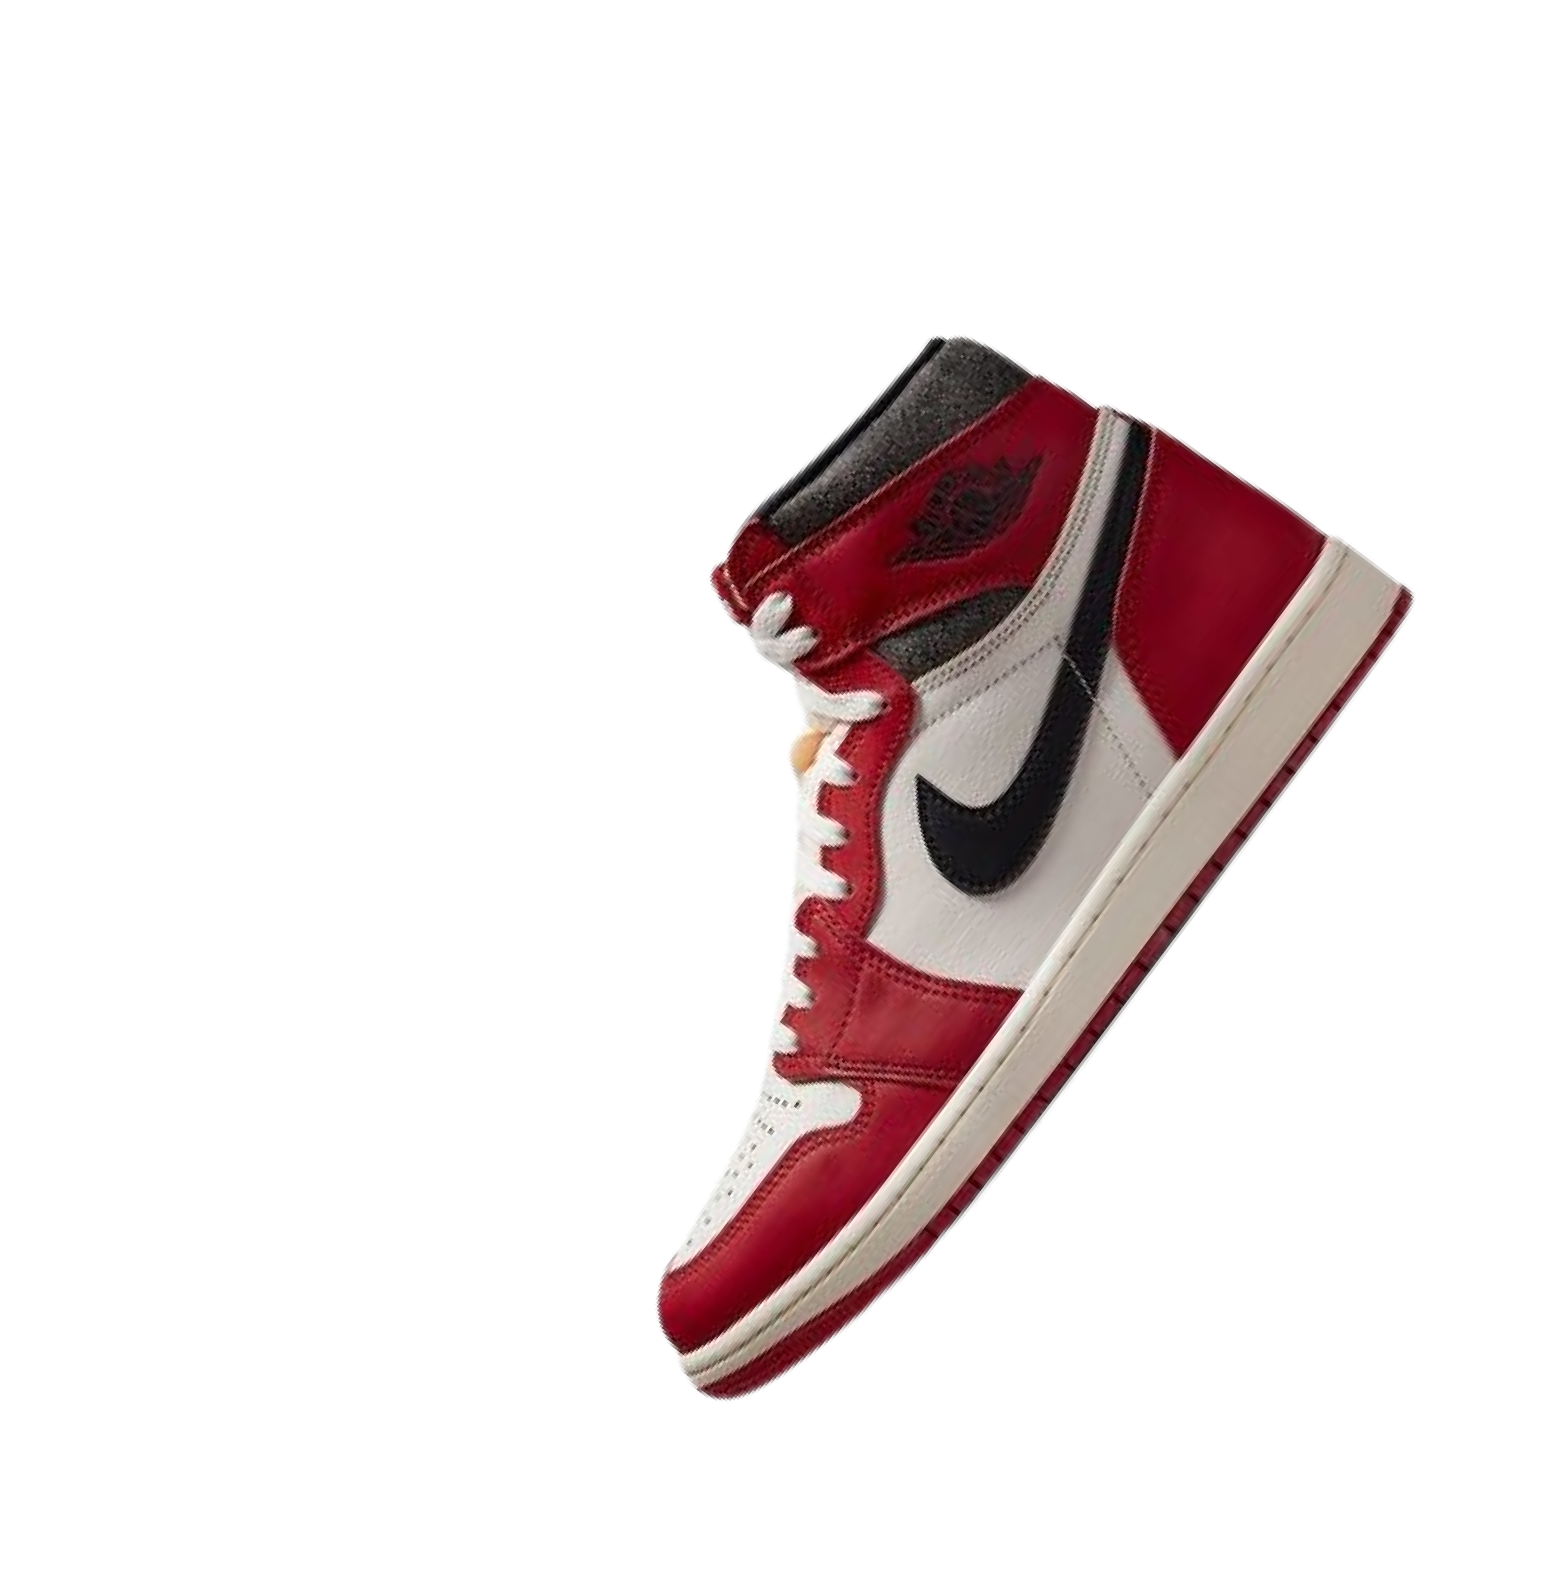
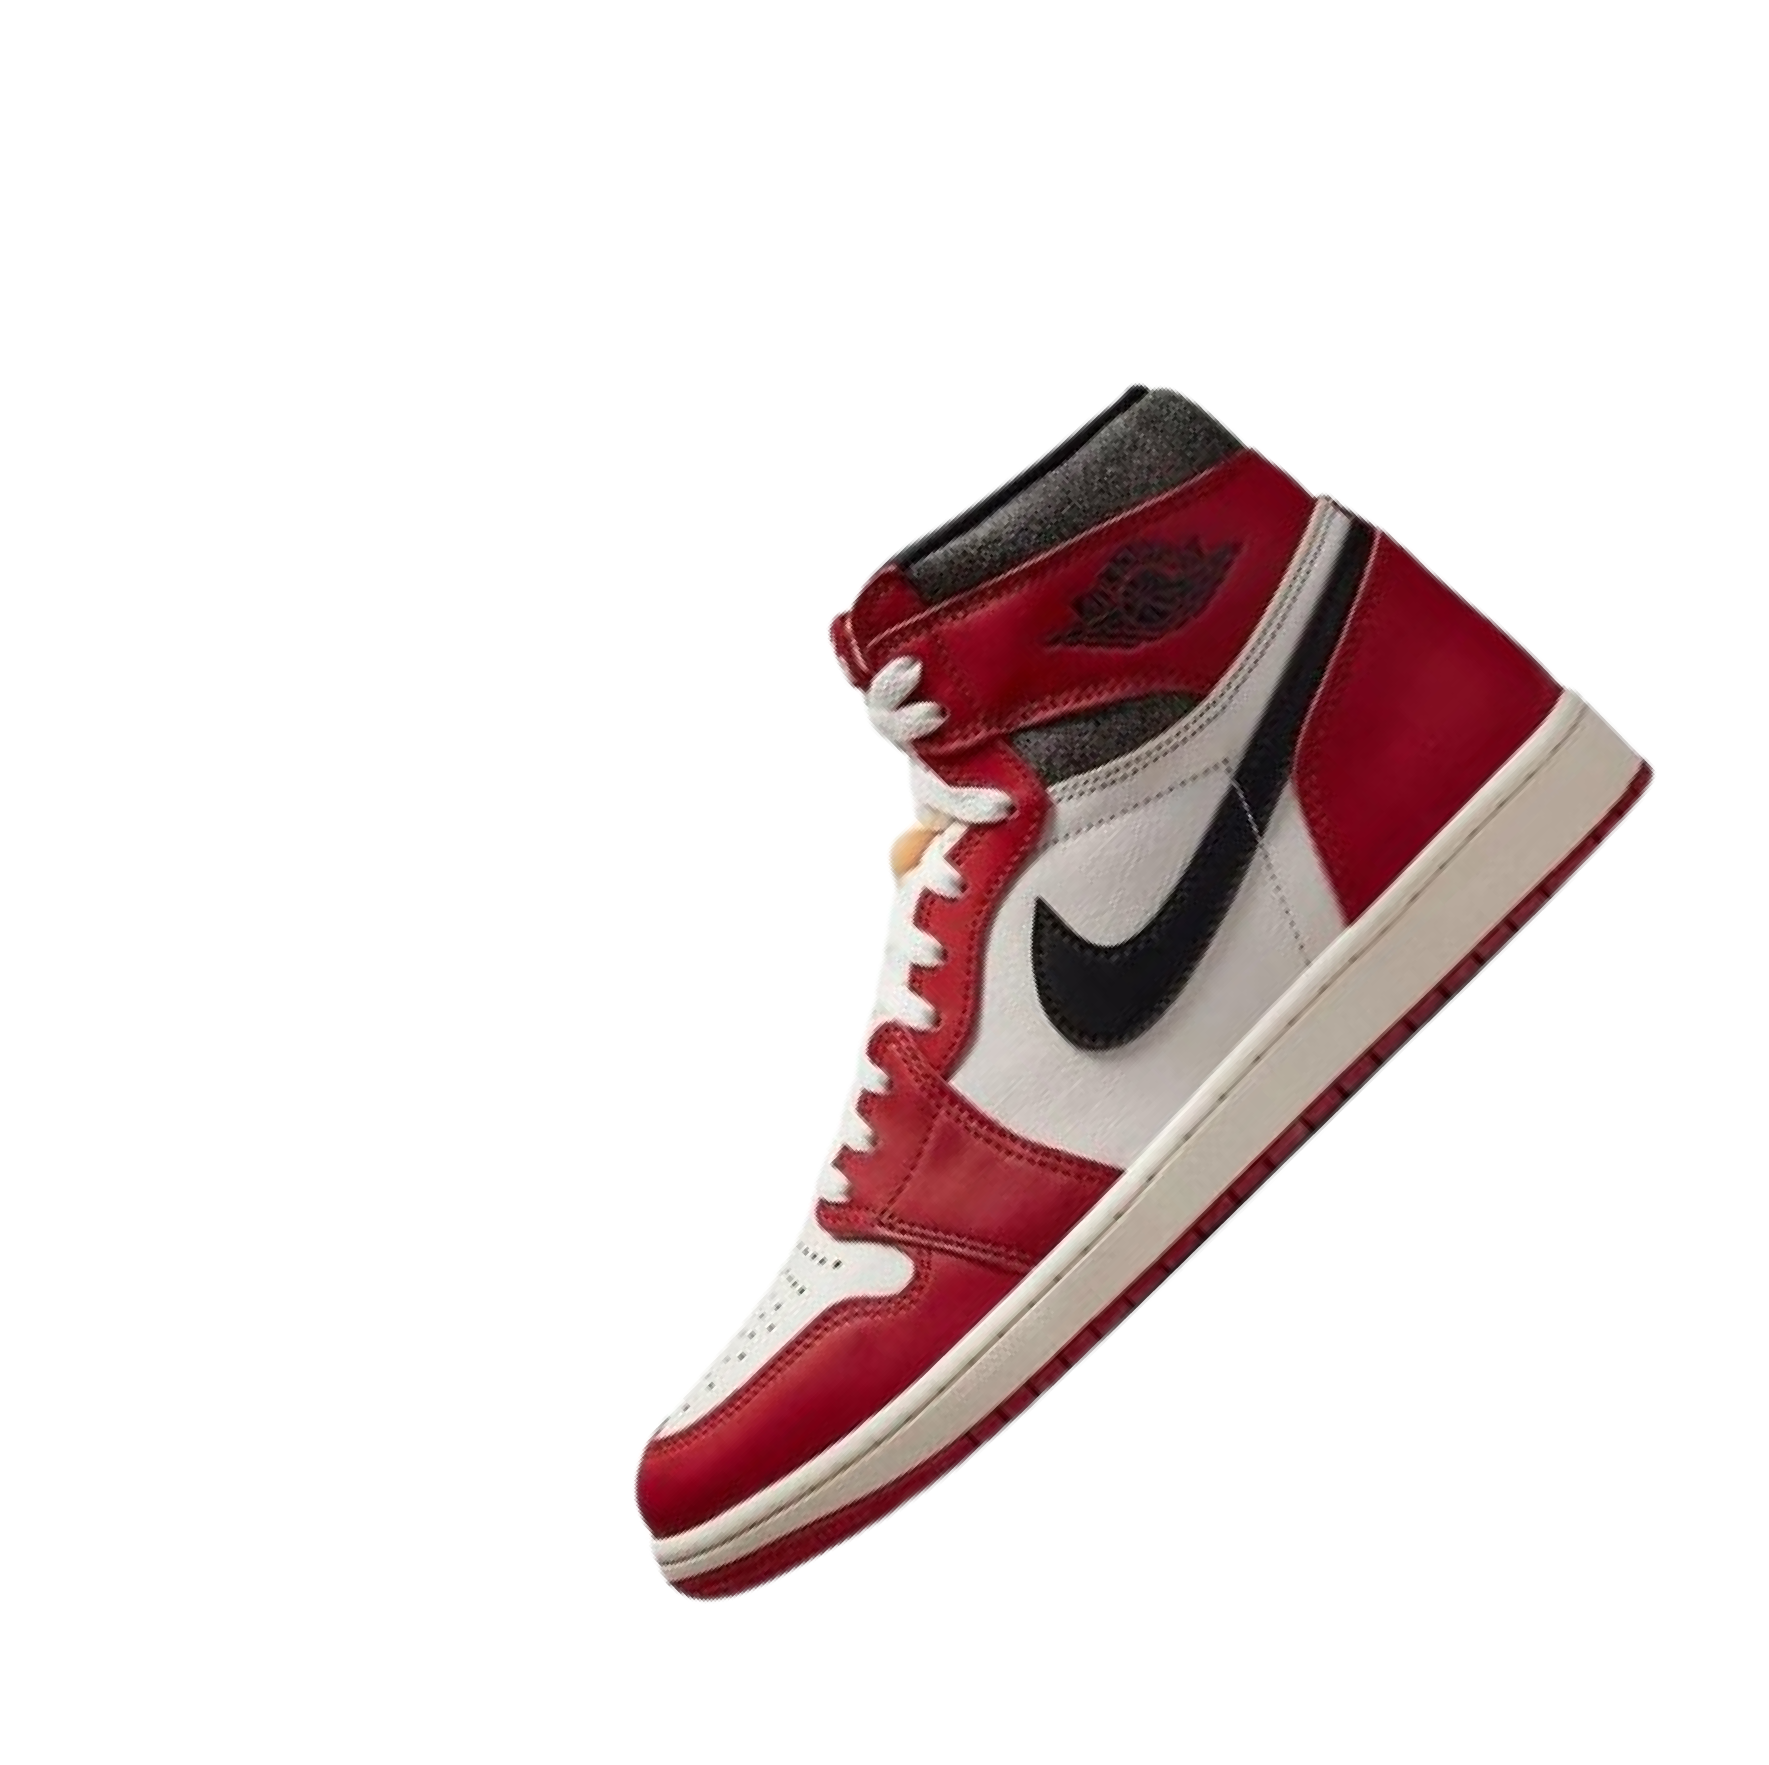
half commit

Changed region(s): [[0.3374, 0.2186, 0.9508, 0.9057]]

diff --git a/src/components/Hero/Hero.jsx b/src/components/Hero/Hero.jsx
@@ -3,6 +3,7 @@ import BgImage from "../../assets/bg-slate.png";
 import LnF from "../../assets/L&F.png";
 import Navbar from "../Navbar/Navbar";
 import { motion } from "framer-motion";
+import { FaFacebookF, FaInstagram, FaTwitter } from "react-icons/fa";
 
 const bgImage = {
   backgroundImage: `url(${BgImage})`,
@@ -12,12 +13,14 @@ const bgImage = {
 };
 
 const Hero = () => {
+  const [sidebar, setSidebar] = React.useState(false);
+
   return (
-    <main style={bgImage}>
-      <section className="min-h-[750px] w-full">
+    <main className="bg-darkGray/95">
+      <section className="min-h-[650px] w-full">
         <div className="container">
           {/* Navbar Section */}
-          <Navbar />
+          <Navbar sidebar={sidebar} setSidebar={setSidebar} />
           {/* Hero Section */}
           <div className="grid grid-cols-1 md:grid-cols-2 lg:grid-cols-3 place-items-center min-h-[850px]">
             {/* text Content Section */}
@@ -31,9 +34,9 @@ const Hero = () => {
                   damping: 10,
                   delay: 1,
                 }}
-                className="text-7xl font-bold leading-tight ml-17"
+                className="text-6xl font-bold leading-tight ml-17"
               >
-                Black Coffee
+                Lost & Found
               </motion.h1>
               <motion.div
                 initial={{ opacity: 0, y: 100 }}
@@ -47,29 +50,29 @@ const Hero = () => {
                 className="relative"
               >
                 <div className="relative z-10 space-y-4">
-                  <h1 className="text-2xl">Black Coffee</h1>
+                  <h1 className="text-2xl">Jodan 1 Retro High OG</h1>
                   <h1 className="text-sm opacity-55 leading-loose">
                     Lorem ipsum dolor, sit amet consectetur adipisicing elit.
                     Soluta officiis dignissimos aut. Necessitatibus magni minus
                     enim esse qui, nostrum neque!
                   </h1>
                 </div>
-                <div className="absolute -top-6 -left-10 w-[250px] h-[195px] bg-gray-700/25"></div>
+                <div className="absolute -top-6 -left-10 w-[250px] h-[195px] bg-gray-700/50"></div>
               </motion.div>
             </div>
             {/* Hero Image Section */}
             <div className="realtive">
-              <img
-                initial={{ opacity: 0, scale:0 }}
-                animate={{ opacity: 1, scale:1 }}
+              <motion.img
+                initial={{ scale: 0 }}
+                animate={{ rotate: 360, scale: 1.1 }}
                 transition={{
                   type: "spring",
-                  stiffness: 100,
-                  damping: 10,
-                  delay: 1,
+                  stiffness: 90,
+                  damping: 30,
+                  duration: 2,
                 }}
                 src={LnF}
-                className="relative z-50 h-[600px] w-[600px] md:h-[600px] img-shadow mr-80 items-center"
+                className="relative z-50 h-[900px] w-[900px] md:h-[600px] md:w-[700px] img-shadow mr-80 items-center justify-center"
               />
               {/* orange circle ring */}
               {/* <div
@@ -77,10 +80,20 @@ const Hero = () => {
               border-[20px] rounded-full z-10"
               ></div> */}
               {/* big text section */}
-              <div className="absolute top-20 left-[300px] z-[100]">
-                <h1 className="text-[100px] scale-150 font-bold text-darkGray/40 leading-none">
-                  Black Coffee
-                </h1>
+              <div className="absolute top-20 left-[950px] z-[100] ">
+                <motion.h1
+                  initial={{ opacity: 0, y: 100 }}
+                  animate={{ opacity: 1, y: 0 }}
+                  transition={{
+                    type: "spring",
+                    stiffness: 100,
+                    damping: 10,
+                    delay: 1,
+                  }}
+                  className="text-[150px] scale-150 font-bold text-darkGray/80 leading-none"
+                >
+                  NIKE
+                </motion.h1>
               </div>
             </div>
             {/* third div Section */}
@@ -93,26 +106,54 @@ const Hero = () => {
                 damping: 10,
                 delay: 1,
               }}
-              className="text-lightOrange mt-[100px] md:mt-0 p-4 space-y-28"
+              className="text-lightOrange mt-[100px] md:mt-0 p-4 space-y-28 opacity-0"
             >
               <h1 className=" opacity-0 text-7xl font-bold leading-tight ml-17">
                 Black Coffee
               </h1>
               <div className="relative">
                 <div className="relative z-10 space-y-4">
-                  <h1 className="text-2xl">Black Coffee</h1>
-                  <h1 className="text-sm opacity-55 leading-loose">
+                  <h1 className="text-2xl opacity-0">Black Coffee</h1>
+                  <h1 className="text-sm  leading-loose opacity-0">
                     Lorem ipsum dolor, sit amet consectetur adipisicing elit.
                     Soluta officiis dignissimos aut. Necessitatibus magni minus
                     enim esse qui, nostrum neque!
                   </h1>
                 </div>
-                <div className="absolute -top-6 -right-10 w-[250px] h-[195px] bg-darkGray/50"></div>
+                <div className="absolute -top-6 -right-10 w-[250px] h-[195px] bg-gray/40 opacity-40"></div>
               </div>
             </motion.div>
             <div></div>
           </div>
         </div>
+
+        {/* sidebar section */}
+        {sidebar && (
+          <motion.div
+            initial={{ x: "10%" }}
+            animate={{ x: 0 }}
+            className="absolute top-0 right-0 w-[140px] h-full bg-primary/50 backdrop-blur-sm z-10"
+          >
+            <div className="w-full h-full flex justify-center items-center ">
+              <div className="flex flex-col justify-center items-center gap-6">
+                {/* line */}
+                <div className="w-[1px] h-[70px] bg-white/20"></div>
+                {/* social icons */}
+                <div className="inline-block p-2 rounded-full cursor-pointer border border-white">
+                  <FaFacebookF className="text-2xl text-black" />
+                </div>
+                <div className="inline-block p-2 rounded-full cursor-pointer border border-white">
+                  <FaInstagram className="text-2xl text-black" />
+                </div>
+                <div className="inline-block p-2 rounded-full cursor-pointer border border-white">
+                  <FaTwitter className="text-2xl text-black" />
+                </div>
+
+                <div className="w-[1px] h-[70px] bg-white/20"></div>
+              </div>
+            </div>
+          </motion.div>
+        )}
       </section>
     </main>
   );

diff --git a/src/components/Services/Services.jsx b/src/components/Services/Services.jsx
@@ -1,7 +1,137 @@
 import React from "react";
+import { motion } from "framer-motion";
+import Nike1 from "../../assets/coffee/nike1.png";
+import Nike2 from "../../assets/coffee/nike2.png";
+import Nike3 from "../../assets/coffee/nike3.png";
 
+const servicesData = [
+  {
+    id: 1,
+    image: Nike1,
+    title: "Power Puff Buttercup ",
+    description:
+      "A bold green and black sneaker inspired by Buttercup's fearless spirit. Perfect for those who love to stand out.",
+  },
+  {
+    id: 2,
+    image: Nike2,
+    title: "Power Puff Bubbles",
+    description:
+      "A vibrant blue and yellow shoe capturing Bubbles' playful energy. Ideal for spreading positivity.",
+  },
+  {
+    id: 3,
+    image: Nike3,
+    title: "Power Puff Blossom",
+    description:
+      "A striking pink and orange sneaker reflecting Blossom's leadership and confidence. Designed for those who command attention.",
+  },
+];
+
+const cardVariants = {
+  hidden: {
+    opacity: 0,
+    y: 20,
+  },
+  visible: {
+    opacity: 1,
+    y: 0,
+    transition: {
+      type: "spring",
+      stiffness: 150,
+      damping: 10,
+      ease: "easeInOut",
+    },
+  },
+};
+
+const containerVariants = {
+  hidden: {
+    opacity: 1,
+  },
+  visible: {
+    opacity: 1,
+    transition: {
+      delay: 0.6,
+      staggerChildren: 0.4,
+    },
+  },
+};
 const Services = () => {
-  return <div>Services</div>;
+  return (
+    <div className="container my-16 space-y-4">
+      {/* header section */}
+      <div className="text-center w-3/4 mx-auto space-y-2 ">
+        <motion.h1
+          initial={{ opacity: 0, scale: 0 }}
+          animate={{ opacity: 1, scale: 1 }}
+          transition={{
+            type: "spring",
+            stiffness: 100,
+            damping: 10,
+            delay: 2.5,
+          }}
+          className="uppercase text-center text-3xl font-bold"
+        >
+          Trend & <span className="text-primary">Unique</span>
+        </motion.h1>
+        <motion.p
+          initial={{ opacity: 0, scale: 0 }}
+          animate={{ opacity: 1, scale: 1 }}
+          transition={{
+            type: "spring",
+            stiffness: 100,
+            damping: 10,
+            delay: 2.5,
+          }}
+          className="font-bold text-sm"
+        >
+          Offering personalized fashion recommendations, premium customer
+          support, fast shipping, and easy returns. Our services are designed to
+          provide a seamless shopping experience with the latest trends and
+          guaranteed satisfaction.
+        </motion.p>
+      </div>
+      {/* card section */}
+      <motion.div
+        variants={containerVariants}
+        initial="hidden"
+        whileInView={"visible"}
+        viewport={{ amount: 0.8 }}
+        animate={{ opacity: 1, scale: 1 }}
+        transition={{
+          type: "spring",
+          stiffness: 150,
+          damping: 40,
+          delay: 1,
+        }}
+        className="grid grid-cols-1 sm:grid-cols-2 md:grid-cols-3 gap-8 mt-16 "
+      >
+        {servicesData.map((service, index) => (
+          <motion.div
+            variants={cardVariants}
+            key={index}
+            className="text-center p-4"
+          >
+            <img
+              className=" w-[250px] h-[250px] ml-24 border-2 mt-10 border-primary rounded-2xl"
+              src={service.image}
+              alt={service.altText || "Service image"}
+            />
+            <div className="space-y-2">
+              <h1 className="text-2xl font-bold text-primary mt-5">
+                {service.title}
+              </h1>
+
+              <p className="text-darkGray text-sm font-serif font-light">
+                {service.description}
+              </p>
+            </div>
+          </motion.div>
+        ))}
+      </motion.div>
+    </div>
+  );
 };
 
 export default Services;

diff --git a/src/components/Navbar/Navbar.jsx b/src/components/Navbar/Navbar.jsx
@@ -1,19 +1,39 @@
 import React from "react";
 import { GiHamburgerMenu } from "react-icons/gi";
-
-const Navbar = () => {
+import { motion } from "framer-motion";
+const Navbar = ({ sidebar, setSidebar }) => {
   return (
     <nav className="absolute top-0 left-0 w-full pt-10 text-white z-20">
       <div className="container">
         <div className=" flex justify-between items-center">
           {/* Logo section */}
-          <h1 className="text-2xl font-semibold uppercase">
+          <motion.h1
+            initial={{ opacity: 0, scale: 0 }}
+            animate={{ opacity: 1, scale: 1 }}
+            transition={{
+              type: "spring",
+              stiffness: 100,
+              damping: 10,
+              delay: 1,
+            }}
+            className="text-2xl font-semibold uppercase"
+          >
             <span className="text-primary">X</span>Edge
-          </h1>
+          </motion.h1>
           {/* hamburgger section */}
-          <div>
+          <motion.div
+            initial={{ opacity: 0, scale: 0 }}
+            animate={{ opacity: 1, scale: 1 }}
+            transition={{
+              type: "spring",
+              stiffness: 100,
+              damping: 10,
+              delay: 0.5,
+            }}
+            onClick={() => setSidebar(!sidebar)}
+          >
             <GiHamburgerMenu className="text-3xl cursor-pointer" />
-          </div>
+          </motion.div>
         </div>
       </div>
     </nav>

diff --git a/index.html b/index.html
@@ -4,7 +4,7 @@
     <meta charset="UTF-8" />
     <link rel="icon" type="image/svg+xml" href="/vite.svg" />
     <meta name="viewport" content="width=device-width, initial-scale=1.0" />
-    <title>Coders Coffee</title>
+    <title>XEdge</title>
   </head>
   <body>
     <div id="root"></div>

diff --git a/src/components/WhereToBuy/WhereToBuy.jsx b/src/components/WhereToBuy/WhereToBuy.jsx
@@ -1,7 +1,7 @@
 import React from "react";
 
 const WhereToBuy = () => {
-  return <div>WhereToBuy</div>;
+  return <div className="container my-36"></div>;
 };
 
 export default WhereToBuy;
